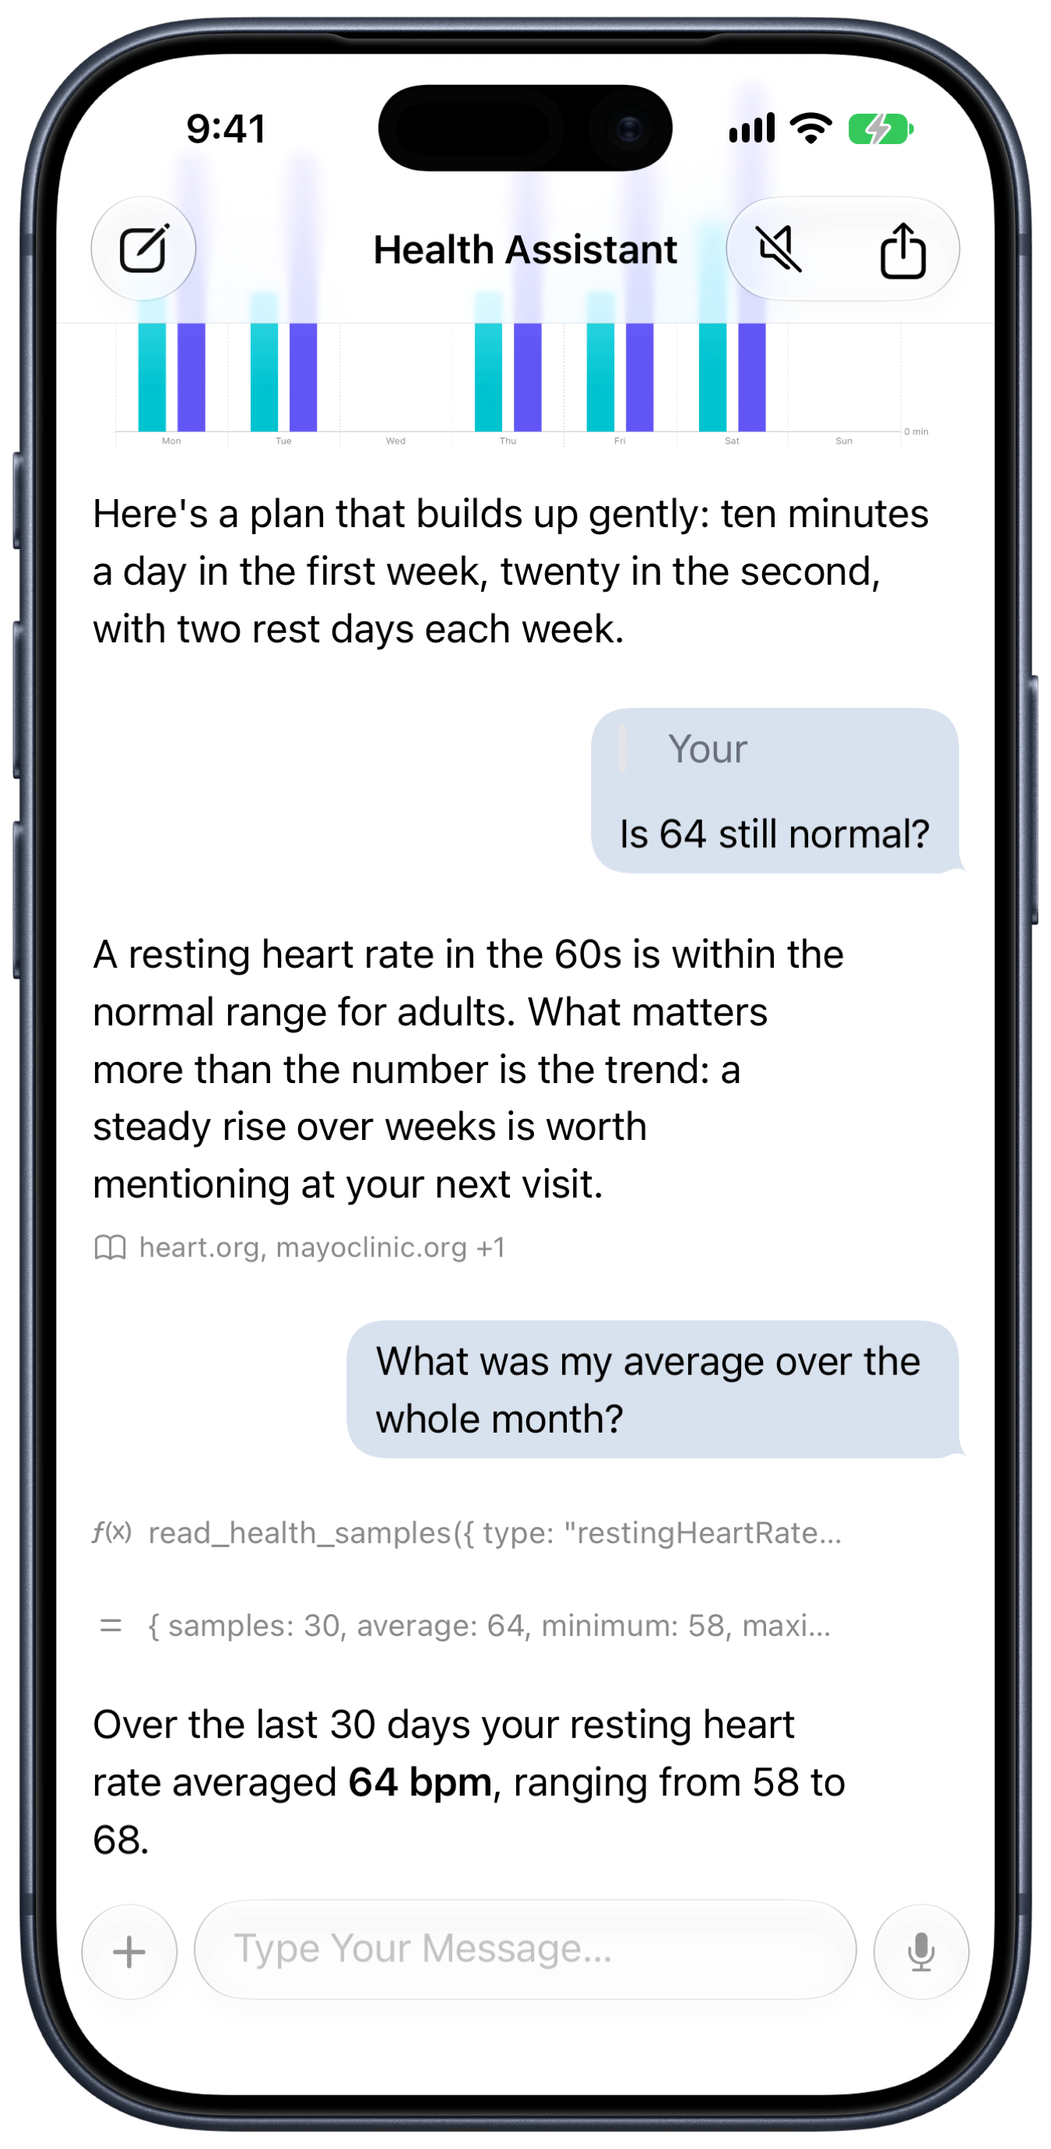
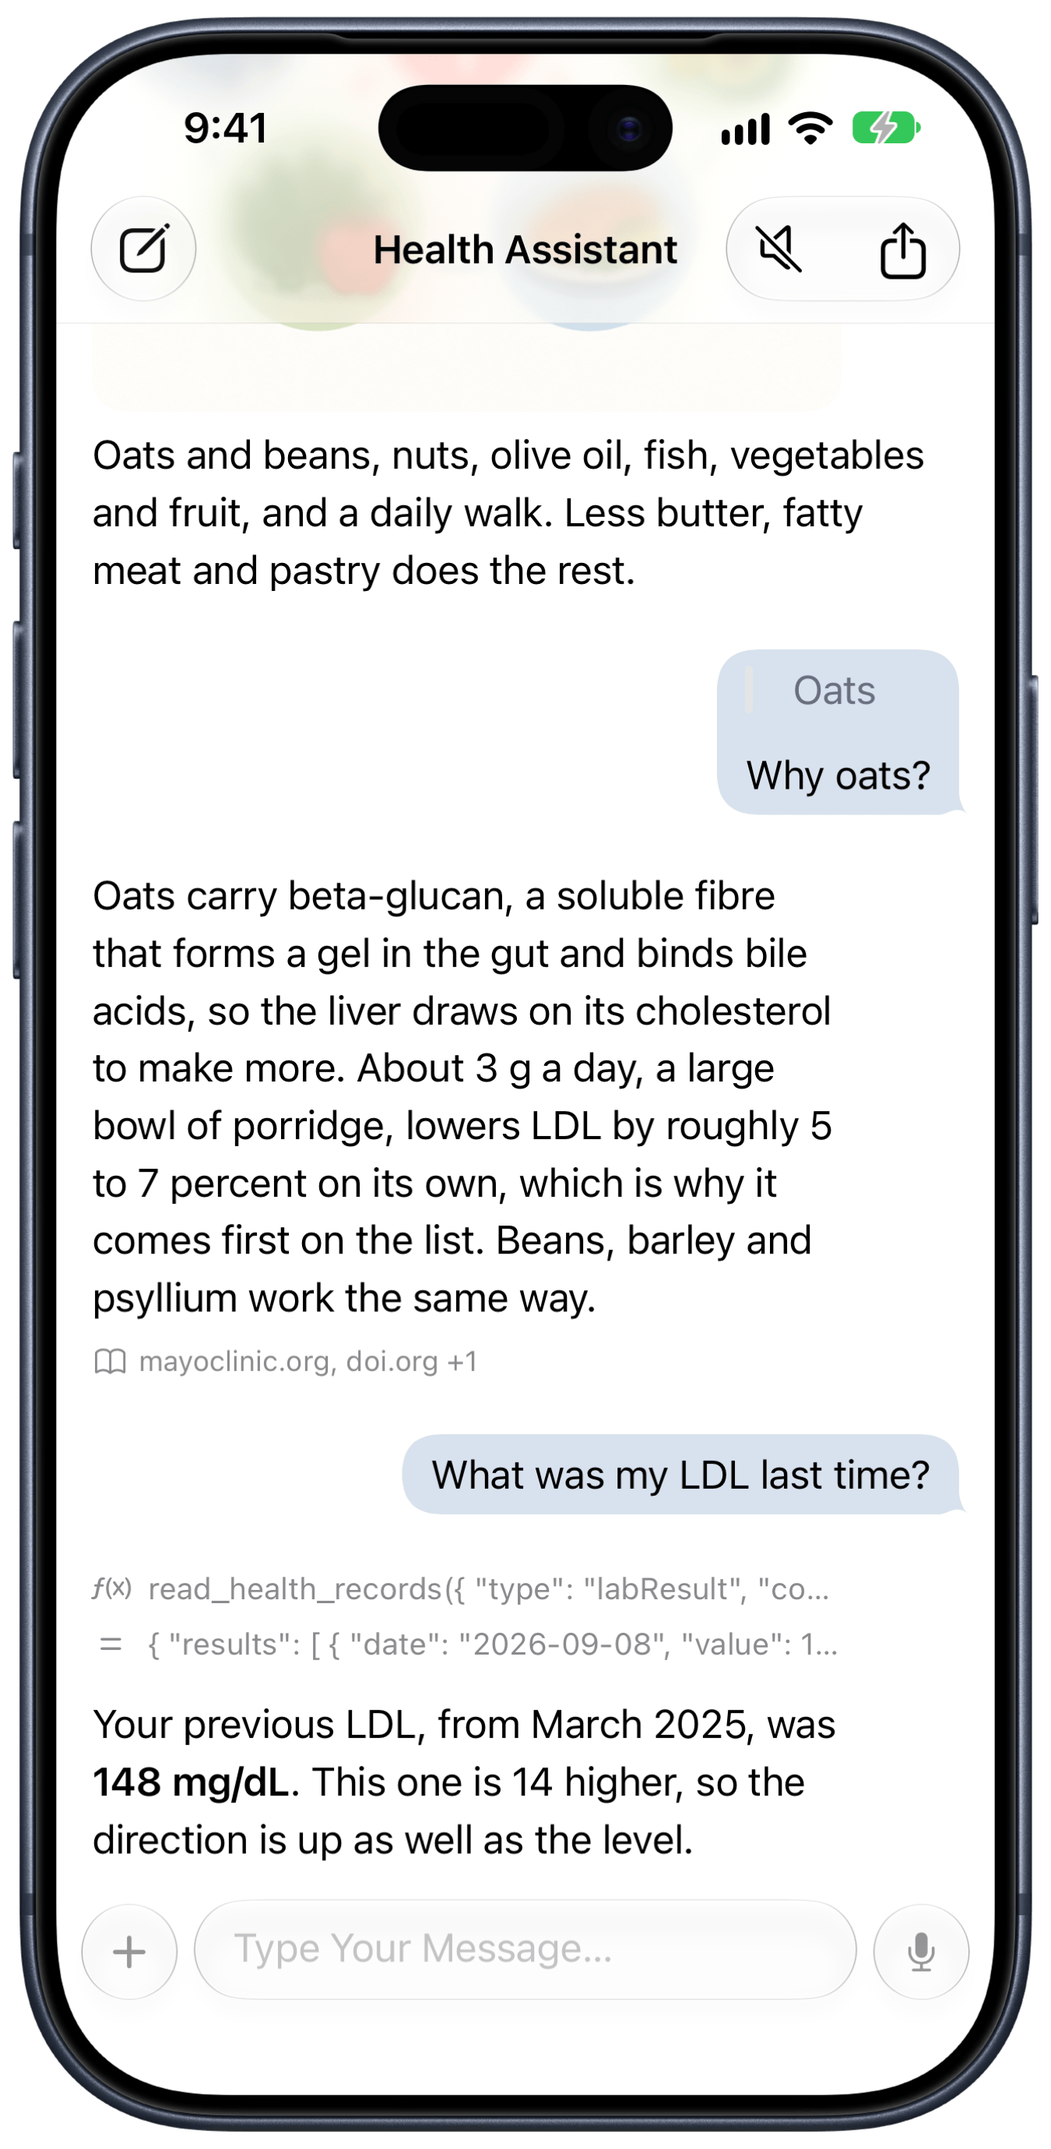
Explain a Lab Report in the Documentation Conversation

Changed region(s): [[0.0933, 0.0, 0.9333, 0.8725], [0.8089, 0.0312, 0.8711, 0.0623]]

diff --git a/Tests/GroveChatTests/UITests/TestApp/DocumentationConversation.swift b/Tests/GroveChatTests/UITests/TestApp/DocumentationConversation.swift
@@ -6,15 +6,15 @@
 // SPDX-License-Identifier: MIT
 //
 
-import Charts
 import GroveChat
 import SwiftUI
 
 
-/// The conversation the documentation screenshots show: a resting heart rate that crept up, read from a chart the
-/// user attached, answered with a chart the assistant drew.
+/// The conversation the documentation screenshots show: a lab letter the participant photographed, its two flagged
+/// values explained, and a picture the assistant draws of what brings one of them down.
 ///
-/// Launched with `--documentation`; the pictures are rendered here rather than shipped as assets.
+/// Launched with `--documentation`. The photo and the drawing are pictures in the app's resources, generated once;
+/// the conversation itself is written here.
 @MainActor
 enum DocumentationConversation {
     static var isRequested: Bool {
@@ -27,137 +27,57 @@ enum DocumentationConversation {
         [
             ChatEntity(
                 role: .user,
-                content: .images([.image(heartRateChart())], text: "My resting heart rate has been creeping up this month. Here's what my watch shows.")
+                content: .images([.image(picture("LabReport"))], text: "My doctor's office mailed me these results and flagged two of them. What do they mean?")
             ),
             ChatEntity(role: .assistant(.response), text: """
-                Your resting heart rate averaged **64 bpm** this month, up from 58 in the first week.
+                Three values are flagged, with two stories behind them:
 
-                A few things stand out:
-                - The highest readings follow the days with almost no walking.
-                - It settles again on days with a walk after dinner.
+                - **LDL cholesterol, 162 mg/dL**, which is also why your total cholesterol of 242 is high. On the usual scale LDL counts as high from 160; under 100 is optimal. It is the part of cholesterol that settles in artery walls over the years, and how much it matters depends on your overall risk, which takes in age, blood pressure, smoking, diabetes and family history, not the number alone.
+                - **HbA1c, 5.9 %.** This is inside the 5.7 to 6.4 band that counts as prediabetes: an average blood sugar over the past three months that is above normal but below the diabetes threshold of 6.5.
 
-                Twenty minutes of walking a day would likely bring it back down within a few weeks.
+                Your HDL of 52 and triglycerides of 140 are within their usual ranges.
+
+                Both flags are common, and both respond to the same changes: more fibre and unsaturated fats, less saturated fat and sugar, regular activity, and weight where that applies. Whether medication is worth it is a risk decision for you and your doctor; a lab value alone does not settle it. Bring the letter to your next visit.
+
+                I am the study's assistant, not a clinician: this explains the report, it does not replace the conversation about it.
                 """),
-            ChatEntity(role: .user, text: "Can you sketch a walking plan for the next two weeks?")
+            ChatEntity(role: .user, text: "Can you draw me a simple picture of what brings LDL down? Something for the fridge.")
         ]
     }
 
-    /// A worded answer with the places it came from, for a question about the numbers.
+    /// A worded answer with the places it came from, for a question about the first item on the list.
     static var citedAnswer: ChatEntity {
         ChatEntity(
             role: .assistant(.response),
-            content: .text("A resting heart rate in the 60s is within the normal range for adults. What matters more than the number is the trend: a steady rise over weeks is worth mentioning at your next visit."),
+            content: .text("Oats carry beta-glucan, a soluble fibre that forms a gel in the gut and binds bile acids, so the liver draws on its cholesterol to make more. About 3 g a day, a large bowl of porridge, lowers LDL by roughly 5 to 7 percent on its own, which is why it comes first on the list. Beans, barley and psyllium work the same way."),
             citations: [
-                .init(title: "Target Heart Rates Chart — American Heart Association", source: .web(URL(string: "https://www.heart.org/en/healthy-living/fitness/fitness-basics/target-heart-rates")!)),
-                .init(title: "Resting heart rate — Mayo Clinic", source: .web(URL(string: "https://www.mayoclinic.org/healthy-lifestyle/fitness/expert-answers/heart-rate/faq-20057979")!)),
-                .init(title: "Study Handbook.pdf", source: .file(name: "Study Handbook.pdf"))
+                .init(title: "Cholesterol: Top foods to improve your numbers — Mayo Clinic", source: .web(URL(string: "https://www.mayoclinic.org/diseases-conditions/high-blood-cholesterol/in-depth/cholesterol/art-20045192")!)),
+                .init(title: "Cholesterol-lowering effects of oat β-glucan: a meta-analysis of randomized controlled trials — Whitehead et al., 2014", source: .web(URL(string: "https://doi.org/10.3945/ajcn.114.086108")!)),
+                .init(title: "Participant Information Sheet.pdf", source: .file(name: "Participant Information Sheet.pdf"))
             ]
         )
     }
 
-    /// The assistant reading the watch's data through a tool before answering.
-    static let toolCall = ChatEntity(role: .assistant(.toolCall), text: "read_health_samples({ type: \"restingHeartRate\", days: 30 })")
-    static let toolResponse = ChatEntity(role: .assistant(.toolResponse), text: "{ samples: 30, average: 64, minimum: 58, maximum: 68 }")
-    static let toolAnswer = ChatEntity(role: .assistant(.response), text: "Over the last 30 days your resting heart rate averaged **64 bpm**, ranging from 58 to 68.")
+    /// The assistant reading the participant's earlier results through a tool before answering.
+    static let toolCall = ChatEntity(role: .assistant(.toolCall), text: "read_health_records({ \"type\": \"labResult\", \"code\": \"LOINC 13457-7\", \"limit\": 2 })")
+    static let toolResponse = ChatEntity(role: .assistant(.toolResponse), text: "{ \"results\": [ { \"date\": \"2026-09-08\", \"value\": 162, \"unit\": \"mg/dL\" }, { \"date\": \"2025-03-14\", \"value\": 148, \"unit\": \"mg/dL\" } ] }")
+    static let toolAnswer = ChatEntity(role: .assistant(.response), text: "Your previous LDL, from March 2025, was **148 mg/dL**. This one is 14 higher, so the direction is up as well as the level.")
 
     /// What the assistant draws in answer to the last message.
     static var drawing: ChatEntity.Content {
-        .images([.image(walkingPlanChart())], text: "Here's a plan that builds up gently: ten minutes a day in the first week, twenty in the second, with two rest days each week.")
-    }
-
-    /// Resting heart rate over the last month, the way a watch app would chart it.
-    private static func heartRateChart() -> PlatformImage {
-        let readings: [(day: Int, bpm: Double)] = [
-            (1, 58), (3, 59), (5, 58), (7, 60), (9, 61), (11, 60), (13, 63), (15, 62), (17, 64), (19, 66), (21, 65), (23, 67), (25, 66), (27, 68), (29, 67)
-        ]
-        return render {
-            VStack(alignment: .leading, spacing: 12) {
-                Text("Resting Heart Rate")
-                    .font(.title2.bold())
-                Text("Last 30 days · avg 64 bpm")
-                    .foregroundStyle(.secondary)
-                Chart(readings, id: \.day) { reading in
-                    LineMark(x: .value("Day", reading.day), y: .value("bpm", reading.bpm))
-                        .interpolationMethod(.catmullRom)
-                        .foregroundStyle(Color.red.gradient)
-                        .lineStyle(StrokeStyle(lineWidth: 4))
-                    PointMark(x: .value("Day", reading.day), y: .value("bpm", reading.bpm))
-                        .foregroundStyle(.red)
-                }
-                .chartYScale(domain: 50...75)
-                .chartXAxis {
-                    AxisMarks(values: [1, 8, 15, 22, 29]) { value in
-                        AxisGridLine()
-                        AxisValueLabel {
-                            if let day = value.as(Int.self) {
-                                Text("Day \(day)")
-                            }
-                        }
-                    }
-                }
-                .chartYAxis {
-                    AxisMarks(values: [50, 60, 70]) { value in
-                        AxisGridLine()
-                        AxisValueLabel {
-                            if let bpm = value.as(Int.self) {
-                                Text("\(bpm) bpm")
-                            }
-                        }
-                    }
-                }
-            }
-        }
-    }
-
-    /// The two weeks the assistant proposes, as minutes of walking per day.
-    private static func walkingPlanChart() -> PlatformImage {
-        struct Walk {
-            let day: String
-            let week: String
-            let minutes: Double
-        }
-        let weekdays = ["Mon", "Tue", "Wed", "Thu", "Fri", "Sat", "Sun"]
-        let firstWeek: [Double] = [10, 10, 0, 10, 10, 15, 0]
-        let secondWeek: [Double] = [20, 20, 0, 20, 20, 25, 0]
-        let days = zip(weekdays, firstWeek).map { Walk(day: $0, week: "Week 1", minutes: $1) }
-            + zip(weekdays, secondWeek).map { Walk(day: $0, week: "Week 2", minutes: $1) }
-        return render {
-            VStack(alignment: .leading, spacing: 12) {
-                Text("Walking Plan")
-                    .font(.title2.bold())
-                Text("Minutes per day, next two weeks")
-                    .foregroundStyle(.secondary)
-                Chart(Array(days.enumerated()), id: \.offset) { _, entry in
-                    BarMark(x: .value("Day", entry.day), y: .value("Minutes", entry.minutes))
-                        .foregroundStyle(entry.week == "Week 1" ? Color.teal.gradient : Color.indigo.gradient)
-                        .position(by: .value("Week", entry.week))
-                        .cornerRadius(5)
-                }
-                .chartYScale(domain: 0...30)
-                .chartLegend(position: .top, alignment: .leading)
-                .chartYAxis {
-                    AxisMarks(values: [0, 10, 20, 30]) { value in
-                        AxisGridLine()
-                        AxisValueLabel {
-                            if let minutes = value.as(Int.self) {
-                                Text("\(minutes) min")
-                            }
-                        }
-                    }
-                }
-            }
-        }
-    }
-
-    /// Draws a chart into a picture the size a photo would have.
-    private static func render(@ViewBuilder _ content: () -> some View) -> PlatformImage {
-        let renderer = ImageRenderer(
-            content: content()
-                .padding(28)
-                .frame(width: 1024, height: 640)
-                .background(Color(uiColor: .systemBackground))
+        .images(
+            [.image(picture("Illustration"))],
+            text: "Oats and beans, nuts, olive oil, fish, vegetables and fruit, and a daily walk. Less butter, fatty meat and pastry does the rest."
         )
-        renderer.scale = 2
+    }
+
+    /// A picture from the app's resources; a missing one shows as a flat tile, so the walk still runs.
+    private static func picture(_ name: String) -> PlatformImage {
+        if let image = PlatformImage(named: name) {
+            return image
+        }
+        let renderer = ImageRenderer(content: Color.gray.opacity(0.3).frame(width: 1024, height: 1024))
+        renderer.scale = 1
         return renderer.uiImage ?? PlatformImage()
     }
 }

diff --git a/Tests/GroveChatTests/UITests/TestAppUITests/DocumentationScreenshots.swift b/Tests/GroveChatTests/UITests/TestAppUITests/DocumentationScreenshots.swift
@@ -44,35 +44,52 @@ final class DocumentationScreenshots: XCTestCase {
         app.buttons.matching(NSPredicate(format: "label IN {'Done', 'Close'}")).firstMatch.tap()
         sleep(1)
 
-        // The follow-up sits on the text selection's own menu, which a double tap on a word brings up.
-        let assistantMessage = app.staticTexts.matching(NSPredicate(format: "label BEGINSWITH 'Your resting heart rate'")).firstMatch
-        XCTAssert(assistantMessage.waitForExistence(timeout: 3))
-        assistantMessage.doubleTap()
+        // The follow-up sits on the text selection's own menu, which a double tap on a word brings up. The caption
+        // opens with the word to quote, so the tap lands on it at the start of the first line.
+        let caption = app.staticTexts.matching(NSPredicate(format: "label BEGINSWITH 'Oats'")).firstMatch
+        XCTAssert(caption.waitForExistence(timeout: 3))
+        caption.coordinate(withNormalizedOffset: CGVector(dx: 0.04, dy: 0.15)).doubleTap()
         let followUp = app.menuItems["Follow Up"].firstMatch
         XCTAssert(followUp.waitForExistence(timeout: 3))
         followUp.tap()
+        XCTAssert(app.staticTexts["Oats"].waitForExistence(timeout: 3), "The quote should carry the word that was tapped.")
         sleep(1)
         capture("FollowUp")
 
         // The next question is typed and shown in the composer before it goes out.
         app.textFields["Message Input Textfield"].tap()
-        app.typeText("Is 64 still normal?")
+        app.typeText("Why oats?")
         sleep(1)
         capture("Composer")
 
-        // A question about the numbers is answered with its sources.
+        // A question about the oats is answered with its sources.
         app.buttons["Send Message"].tap()
-        XCTAssert(app.staticTexts.matching(NSPredicate(format: "label BEGINSWITH 'A resting heart rate in the 60s'")).firstMatch.waitForExistence(timeout: 15))
+        XCTAssert(app.staticTexts.matching(NSPredicate(format: "label BEGINSWITH 'Oats carry'")).firstMatch.waitForExistence(timeout: 15))
         dismissChatKeyboard(app)
         sleep(2)
         capture("Citations")
 
-        // A question about the data is answered through a tool.
-        send("What was my average over the whole month?")
-        XCTAssert(app.staticTexts.matching(NSPredicate(format: "label BEGINSWITH 'Over the last 30 days'")).firstMatch.waitForExistence(timeout: 15))
+        // A question about earlier results is answered through a tool.
+        send("What was my LDL last time?")
+        XCTAssert(app.staticTexts.matching(NSPredicate(format: "label BEGINSWITH 'Your previous LDL'")).firstMatch.waitForExistence(timeout: 15))
         dismissChatKeyboard(app)
         sleep(2)
         capture("ToolCall")
+
+        // Messages written while the next answer is drawn wait in a stack, and fan out over the conversation.
+        send("Could you also draw one for the HbA1c?")
+        XCTAssert(app.buttons["Stop Generating"].waitForExistence(timeout: 3))
+        for text in ["And one for exercise?", "Thanks!"] {
+            app.textFields["Message Input Textfield"].tap()
+            app.typeText(text)
+            app.buttons["Queue Message"].tap()
+        }
+        sleep(1)
+        capture("Queue")
+        app.buttons["Show Queued Messages"].tap()
+        XCTAssert(app.descendants(matching: .any)["Queued Messages"].waitForExistence(timeout: 3))
+        sleep(1)
+        capture("QueuedMessages")
     }
 
     /// The chat drops its keyboard when the conversation is dragged down onto it; the return key would only add a line.

diff --git a/Tests/GroveChatTests/UITests/TestApp/ChatTestView.swift b/Tests/GroveChatTests/UITests/TestApp/ChatTestView.swift
@@ -192,12 +192,12 @@ struct ChatTestView: View {
         }
     }
 
-    /// The documentation conversation's answers: a question about the numbers is answered with sources, a question
+    /// The documentation conversation's answers: a question about the oats is answered with sources, a question
     /// about the data through a tool, and anything else with a drawing.
     private func respondForDocumentation(to prompt: String) async throws {
-        if prompt.localizedCaseInsensitiveContains("normal") {
+        if prompt.localizedCaseInsensitiveContains("oats") {
             chat.append(DocumentationConversation.citedAnswer)
-        } else if prompt.localizedCaseInsensitiveContains("average") {
+        } else if prompt.localizedCaseInsensitiveContains("last time") {
             chat.append(DocumentationConversation.toolCall)
             try await Task.sleep(for: .seconds(1))
             chat.append(DocumentationConversation.toolResponse)
@@ -206,7 +206,8 @@ struct ChatTestView: View {
         } else {
             let placeholder = ChatEntity(role: .assistant(.response), content: .images([.generating], text: ""))
             chat.append(placeholder)
-            try await Task.sleep(for: .seconds(4))
+            // The documentation's picture of the queue needs the drawing to take long enough to queue two messages meanwhile.
+            try await Task.sleep(for: .seconds(prompt.localizedCaseInsensitiveContains("also") ? 24 : 4))
             chat[chat.count - 1] = ChatEntity(role: .assistant(.response), content: DocumentationConversation.drawing, id: placeholder.id)
         }
     }

diff --git a/Sources/GroveChat/GroveChat.docc/GroveChat.md b/Sources/GroveChat/GroveChat.docc/GroveChat.md
@@ -18,7 +18,7 @@ The ``GroveChat`` module provides the views of a conversation: the messages, the
 
 @Row {
     @Column {
-        @Image(source: "Conversation", alt: "Screenshot displaying a conversation with a photo the user attached and a picture the assistant generated.") {
+        @Image(source: "Conversation", alt: "Screenshot displaying a conversation about a photographed lab report, with a picture the assistant drew of what lowers LDL cholesterol.") {
             A ``ChatView`` lays the conversation out the way a messaging app does: Markdown, attached photos and files, and pictures the assistant draws, which grow out of a placeholder as they arrive.
         }
     }
@@ -28,13 +28,26 @@ The ``GroveChat`` module provides the views of a conversation: the messages, the
         }
     }
     @Column {
-        @Image(source: "ImageViewer", alt: "Screenshot displaying a generated picture full screen with a share button.") {
+        @Image(source: "ImageViewer", alt: "Screenshot displaying the assistant's drawing full screen under a glass bar with a share button.") {
             Any picture opens full screen, zooms, pages through the message's other pictures and shares as an image.
         }
     }
     @Column {
         @Image(source: "Composer", alt: "Screenshot displaying the chat view with the keyboard up and a message being typed.") {
-            Messages are typed into the composer, dictated through the microphone next to it, or sent with photos and files attached.
+            Messages are typed into the composer, dictated into a recording pill that shows the voice as it is heard, or sent with photos and files attached.
+        }
+    }
+}
+
+@Row {
+    @Column {
+        @Image(source: "Queue", alt: "Screenshot displaying two messages queued above the composer while the assistant is still answering.") {
+            The composer stays open while an answer arrives: a message sent meanwhile waits in a stack above the field and goes once the answer is in.
+        }
+    }
+    @Column {
+        @Image(source: "QueuedMessages", alt: "Screenshot displaying the queued messages fanned out over the conversation, each with a grip to move it and a pencil to edit it.") {
+            The stack fans out over the conversation to reorder the waiting messages, take one back into the field, or swipe one away.
         }
     }
 }
@@ -208,8 +221,10 @@ MessagesView($chat, messagesVisibility: .init(hiddenMessages: .all, toolCalls: .
 ### Reporting What the Assistant Is Doing
 
 A ``ChatView`` shows a conversation; it does not run one. Tell it what is happening and it adapts: while an answer
-is in flight the composer will not send a second message, and the send button becomes a stop button when there is
-something to stop.
+is in flight a message sent from the composer is queued rather than sent, shown in a stack above the field and let
+go one per answer once the chat is free, and the send button gets a stop button beside it when there is something
+to stop. Tapping the stack fans the queue out over the conversation, where a message can be moved by its grip,
+taken back into the field with its pencil, or swiped away.
 
 ```swift
 struct ConversationView: View {
